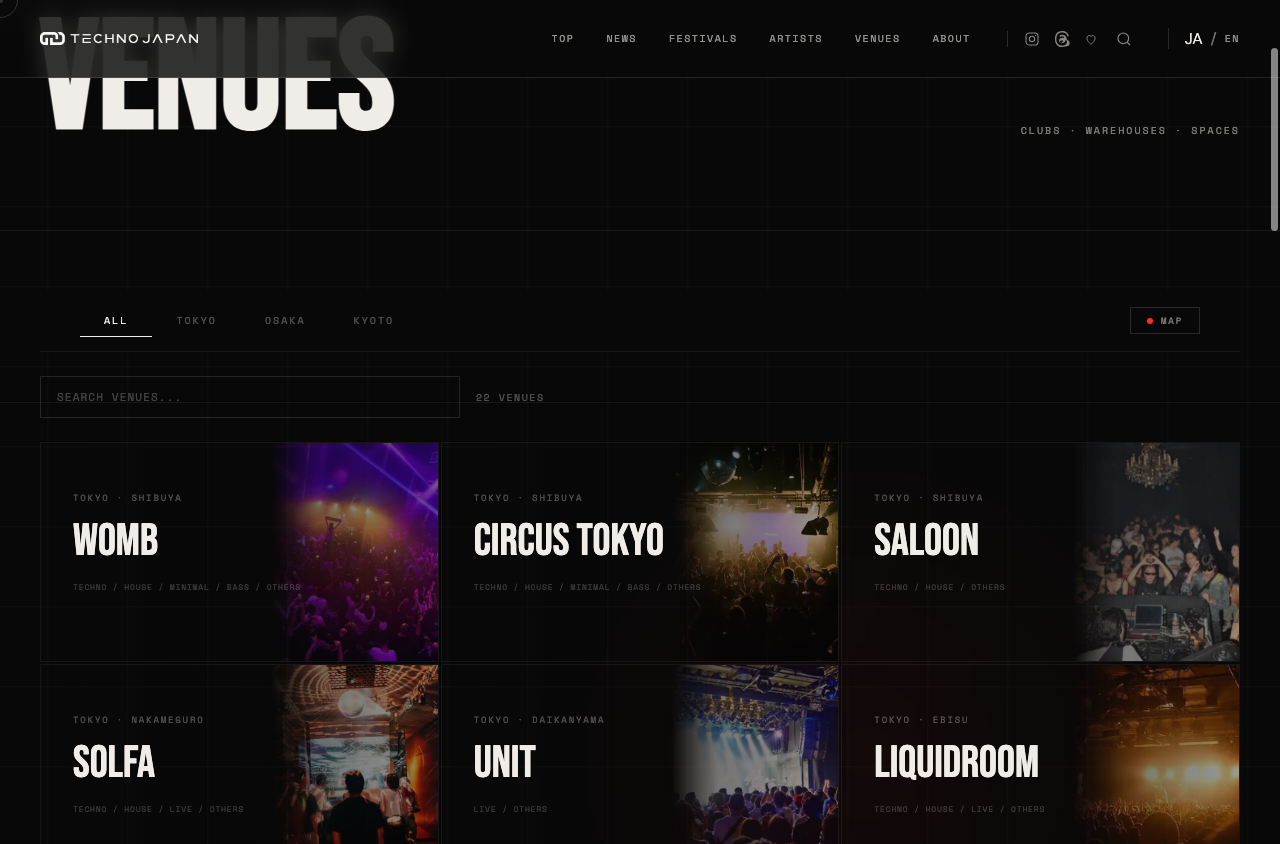
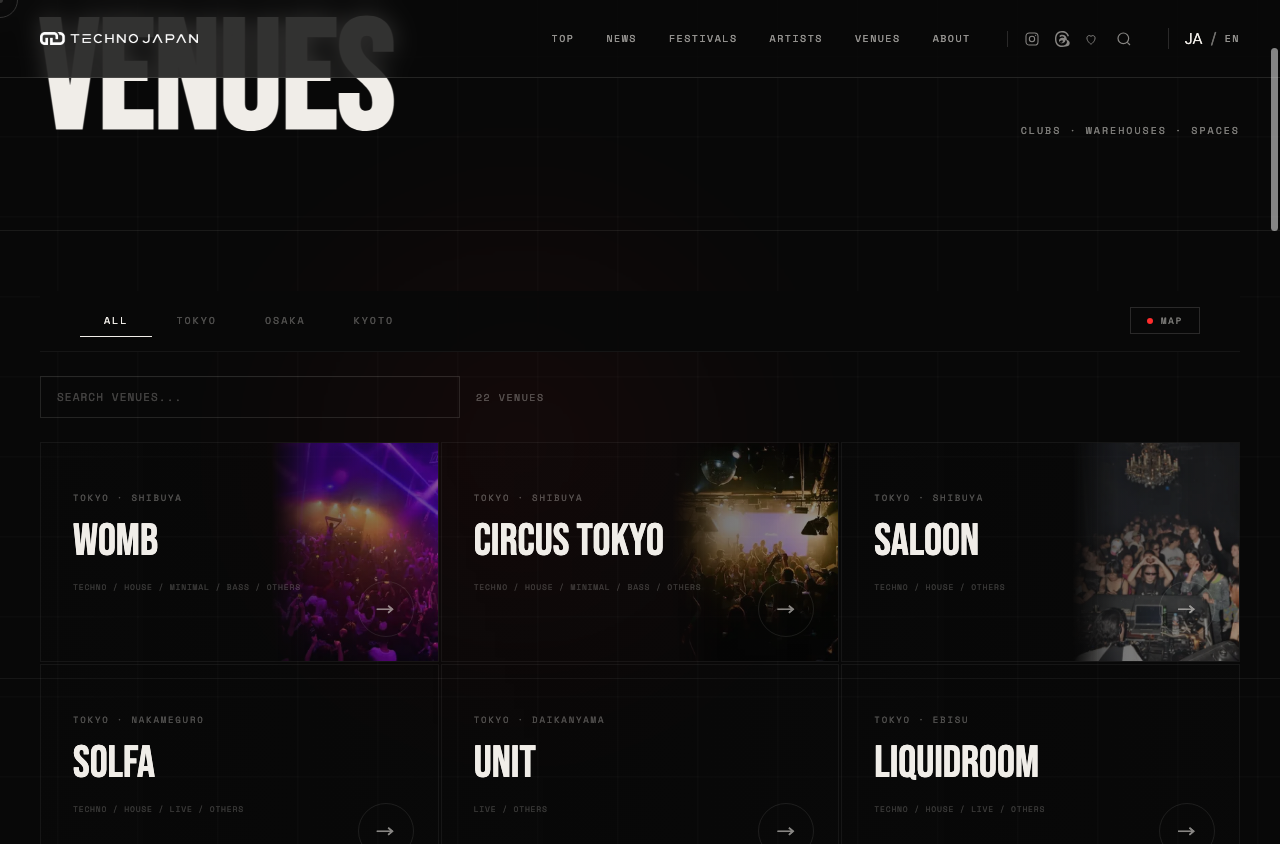
fix: place desktop venue action at image corner

Changed region(s): [[0.2188, 0.7701, 0.3438, 1.0], [0.5312, 0.7701, 0.6562, 1.0], [0.8438, 0.7701, 0.9688, 1.0]]

diff --git a/LP/en/venues.html b/LP/en/venues.html
@@ -89,7 +89,7 @@
 .venue-card-area { font-family: var(--font-mono); font-size: 9px; letter-spacing: 0.15em; text-transform: uppercase; opacity: 0.3; margin-bottom: 16px; }
 .venue-card-genre { font-family: var(--font-mono); font-size: 8px; letter-spacing: 0.1em; text-transform: uppercase; opacity: 0.2; }
 .venue-card-arrow {
-  position: absolute; right: 32px; bottom: 48px; z-index: 1;
+  position: absolute; right: 24px; bottom: 24px; z-index: 1;
   width: 56px; height: 56px; border: 1px solid rgba(240,237,232,0.18); border-radius: 50%;
   display: inline-flex; align-items: center; justify-content: center;
   font-family: var(--font-mono); font-size: 9px; letter-spacing: 0.15em; text-transform: uppercase;
@@ -288,6 +288,7 @@
   .venue-card { padding: 36px 24px; min-height: auto; }
   .venue-card-visual { width: 38%; }
   .venue-card.has-visual .venue-card-content { padding-right: 24%; }
+  .venue-card-arrow { right: 32px; bottom: 48px; }
   /* Full-width map on mobile — break out of parent padding */
   .city-map-wrap {
     margin: 0 -24px 32px;

diff --git a/LP/venues.html b/LP/venues.html
@@ -89,7 +89,7 @@
 .venue-card-area { font-family: var(--font-mono); font-size: 9px; letter-spacing: 0.15em; text-transform: uppercase; opacity: 0.3; margin-bottom: 16px; }
 .venue-card-genre { font-family: var(--font-mono); font-size: 8px; letter-spacing: 0.1em; text-transform: uppercase; opacity: 0.2; }
 .venue-card-arrow {
-  position: absolute; right: 32px; bottom: 48px; z-index: 1;
+  position: absolute; right: 24px; bottom: 24px; z-index: 1;
   width: 56px; height: 56px; border: 1px solid rgba(240,237,232,0.18); border-radius: 50%;
   display: inline-flex; align-items: center; justify-content: center;
   font-family: var(--font-mono); font-size: 9px; letter-spacing: 0.15em; text-transform: uppercase;
@@ -288,6 +288,7 @@
   .venue-card { padding: 36px 24px; min-height: auto; }
   .venue-card-visual { width: 38%; }
   .venue-card.has-visual .venue-card-content { padding-right: 24%; }
+  .venue-card-arrow { right: 32px; bottom: 48px; }
   /* Full-width map on mobile — break out of parent padding */
   .city-map-wrap {
     margin: 0 -24px 32px;
